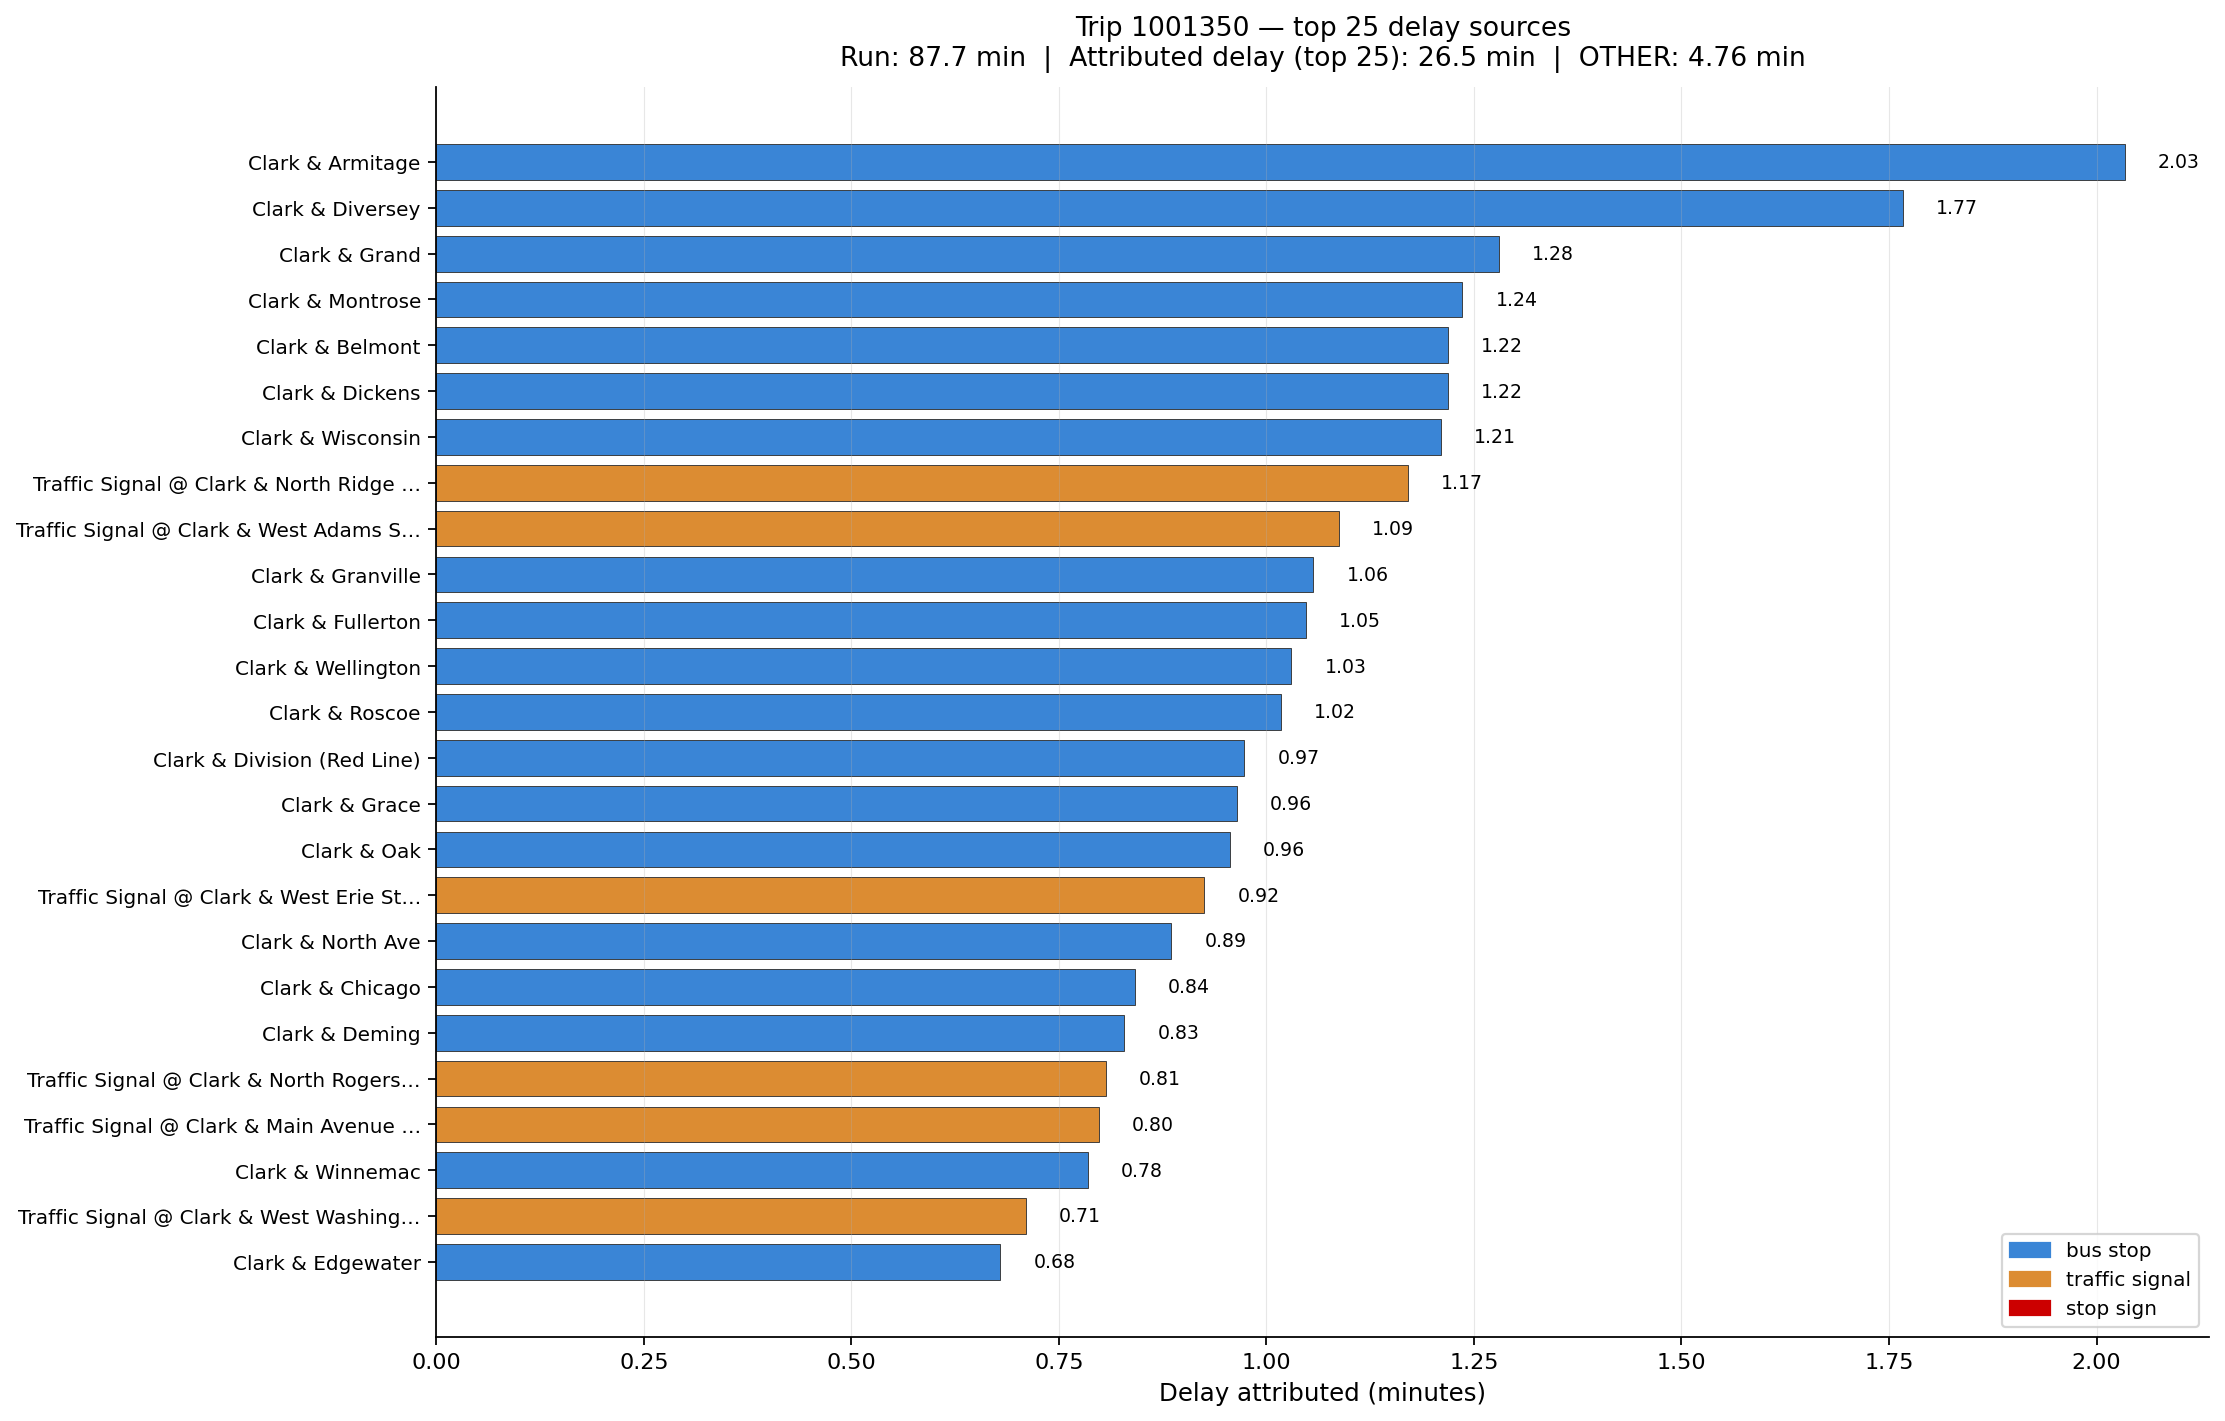
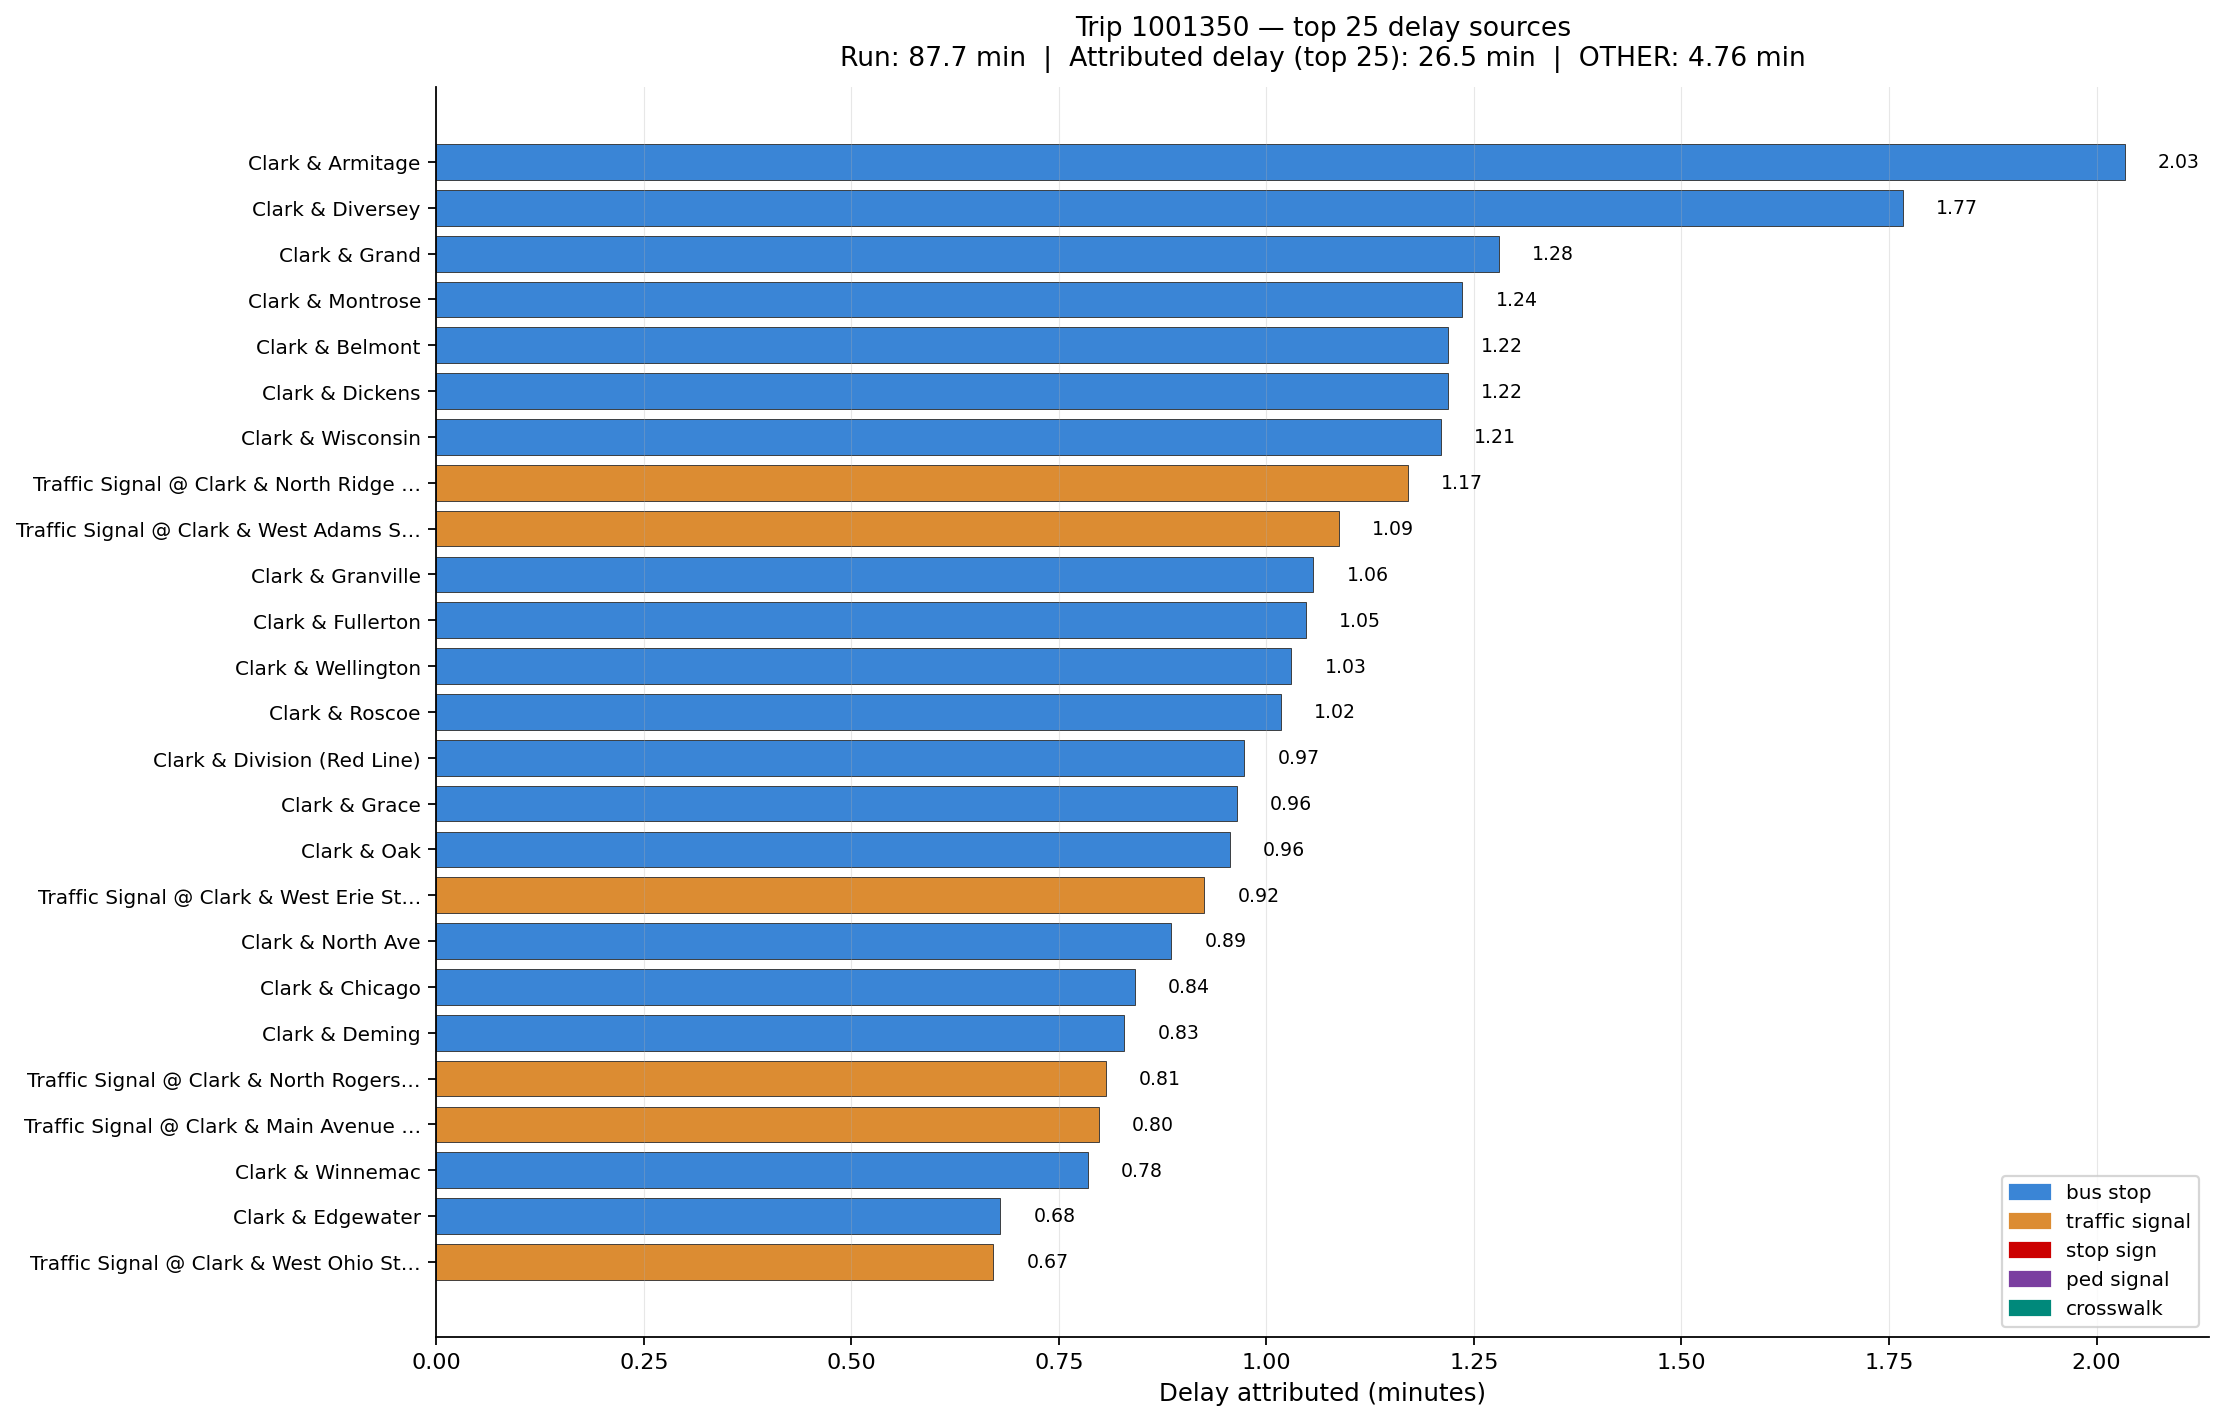
Detect pedestrian crossings in the OSM enrichment
Adds two new ControlPoint types alongside traffic_signals and stop:

  - ped_crossing_signal — signalised pedestrian crossings (Pelican, Puffin,
    Toucan, crossing=traffic_signals, etc.) where the bus must wait on red.
  - ped_crossing_marked — marked but unsignalised crossings (zebra, marked,
    legacy "uncontrolled" with markings) where the bus must yield.

`highway=crossing` nodes are processed in the same per-segment walk as the
intersection logic; a node only flows into the output if it's either a true
intersection (member of ≥2 highway ways) or a recognised pedestrian crossing
variant. Unmarked crossings are dropped (buses don't reliably stop for
them). After the main loop, ped crossings within 40 m of any captured
signal/stop intersection are filtered out so their delay isn't
double-counted against the same physical location; the threshold is
exposed as `--ped-merge` (default 40 m) and as the `ped_merge_m`
parameter on `find_intersections_for_shape` and `build_intersections`.

DEFAULT_KEEP_TYPES and the CLI `--keep-types` default now include both ped
variants so they're surfaced by default. On the Route 22 SB shape (10.7 mi,
77 signals, 8 stop signs), the rebuilt enrichment adds 42 marked
crosswalks + 1 signalised pedestrian crossing; ~140 candidate ped nodes
are suppressed by the proximity filter as co-located with existing signal
intersections.

Tests: 7 new cases cover signalised vs marked vs unmarked classification,
[…]

Changed region(s): [[0.0, 0.836, 0.4962, 0.898], [0.8993, 0.8051, 0.9924, 0.9289]]

diff --git a/src/bus_trajectories/intersections.py b/src/bus_trajectories/intersections.py
@@ -1,14 +1,25 @@
-"""Enrich a way-match cache with the controlled intersections along a route.
+"""Enrich a way-match cache with the controlled features along a route.
 
-For each shape in a way-match cache, we identify intersections (nodes where
-the bus's OSM way meets another road) and keep only those where the bus's
-direction of travel is *controlled*:
+For each shape in a way-match cache, we identify two kinds of nodes that
+constrain the bus's speed:
 
-  - The intersection node carries ``highway=traffic_signals`` (signal applies
-    to all approaches by default).
-  - A node on the bus's way, just upstream of the intersection in the bus's
-    traversal direction, carries ``highway=stop`` or ``highway=give_way``
-    with a ``direction`` tag that matches the bus's traversal.
+1. **Controlled intersections** — nodes where the bus's OSM way meets another
+   road, and the bus's direction of travel is controlled:
+
+   - The intersection node carries ``highway=traffic_signals`` (signal
+     applies to all approaches by default).
+   - A node on the bus's way, just upstream of the intersection in the
+     bus's traversal direction, carries ``highway=stop`` or
+     ``highway=give_way`` with a ``direction`` tag that matches the bus's
+     traversal.
+
+2. **Pedestrian crossings** — ``highway=crossing`` nodes on the bus's way
+   that are either signalised (``crossing=traffic_signals`` and related
+   ``crossing_ref`` values) or marked (``crossing=marked`` / ``zebra`` /
+   ``uncontrolled``). Unmarked crossings are skipped since they rarely
+   cause buses to actually stop. Crossings co-located with a captured
+   intersection (within ~40 m) are dropped to avoid double-counting the
+   same physical delay.
 
 Intersections where the control is on a side street the bus doesn't use are
 treated as "bus has free right-of-way" and skipped.
@@ -55,7 +66,19 @@ DEFAULT_CLUSTER_GAP_M = 0.015 * 1609.344  # ~24.1 m
 
 # Default control types to keep in the output. give_way is dropped by
 # default since OSM tagging of yields on bus arterials is sparse and noisy.
-DEFAULT_KEEP_TYPES: tuple[str, ...] = ("traffic_signals", "stop")
+DEFAULT_KEEP_TYPES: tuple[str, ...] = (
+    "traffic_signals",
+    "stop",
+    "ped_crossing_signal",
+    "ped_crossing_marked",
+)
+
+# A pedestrian crossing within this distance of a signal / stop-sign
+# intersection is folded into the intersection (the bus's delay there is
+# already attributed to the signal/stop). 40 m ≈ half a typical Chicago
+# block; far enough to catch far-side crossings but tight enough that a
+# genuine mid-block crossing on the next block stays distinct.
+DEFAULT_PED_MERGE_M = 40.0
 
 DEFAULT_OVERPASS_ENDPOINT = "https://overpass-api.de/api/interpreter"
 
@@ -217,6 +240,68 @@ def _node_to_highway_ways(ways_by_id: dict[int, dict]) -> dict[int, set[int]]:
     return out
 
 
+def _pedestrian_crossing_type(tags: dict) -> str | None:
+    """Classify a ``highway=crossing`` node by its variant.
+
+    Returns:
+        ``"ped_crossing_signal"`` — signalised pedestrian crossing (Pelican,
+        Puffin, Toucan, etc.), where the bus must wait on a red.
+        ``"ped_crossing_marked"`` — marked but un-signalised crossing
+        (zebra, marked, "uncontrolled"). Buses must yield to pedestrians.
+        ``None`` — unmarked / unknown / not a crossing. Skipped.
+    """
+    if (tags.get("highway") or "").lower() != "crossing":
+        return None
+    crossing = (tags.get("crossing") or "").lower()
+    cref = (tags.get("crossing_ref") or "").lower()
+    if crossing == "traffic_signals" or cref in (
+        "pelican", "puffin", "toucan", "pegasus", "signals"
+    ):
+        return "ped_crossing_signal"
+    # "uncontrolled" in OSM legacy tagging means "marked, no signal" — buses
+    # still stop. New OSM guidance is to use crossing=marked; we accept both.
+    if crossing in ("marked", "zebra", "uncontrolled") or cref == "zebra":
+        return "ped_crossing_marked"
+    # Newer schema: crossing:markings=yes/zebra/lines/...
+    if (tags.get("crossing:markings") or "").lower() in (
+        "yes", "zebra", "lines", "dashes", "ladder"
+    ):
+        return "ped_crossing_marked"
+    return None
+
+
+def _drop_ped_crossings_near_intersections(
+    cps: list[ControlPoint], *, max_dist_m: float
+) -> list[ControlPoint]:
+    """Drop ped-crossing entries that are within ``max_dist_m`` of any
+    non-ped ControlPoint (whose attributed delay already covers the same
+    physical location).
+    """
+    import bisect
+
+    non_ped_dists = sorted(
+        c.dist_along_route_m
+        for c in cps
+        if not c.control_type.startswith("ped_crossing")
+    )
+    if not non_ped_dists:
+        return cps
+    out: list[ControlPoint] = []
+    for c in cps:
+        if not c.control_type.startswith("ped_crossing"):
+            out.append(c)
+            continue
+        i = bisect.bisect_left(non_ped_dists, c.dist_along_route_m)
+        nearest = float("inf")
+        if i < len(non_ped_dists):
+            nearest = min(nearest, abs(non_ped_dists[i] - c.dist_along_route_m))
+        if i > 0:
+            nearest = min(nearest, abs(non_ped_dists[i - 1] - c.dist_along_route_m))
+        if nearest > max_dist_m:
+            out.append(c)
+    return out
+
+
 def _direction_applies(direction_tag: str | None, bus_direction: str) -> bool:
     """Does an OSM direction tag apply to a bus traversing in ``bus_direction``?
 
@@ -297,6 +382,7 @@ def find_intersections_for_shape(
     stop_sign_proximity_m: float = STOP_SIGN_PROXIMITY_M,
     keep_types: tuple[str, ...] = DEFAULT_KEEP_TYPES,
     cluster_gap_m: float = DEFAULT_CLUSTER_GAP_M,
+    ped_merge_m: float = DEFAULT_PED_MERGE_M,
 ) -> list[ControlPoint]:
     """For one shape's way-cache, find every controlled intersection on the route.
 
@@ -369,12 +455,15 @@ def find_intersections_for_shape(
             ):
                 pending_stop = (node_id, dist_route_m, highway_tag)
 
-            # Is this an intersection node? (member of >=2 highway ways
+            # Is this node an intersection (member of >=2 highway ways
             # OUTSIDE the bus's path — Clark Street is itself many OSM ways
             # joined end-to-end, so we exclude every way_id the bus traverses
-            # to avoid treating the next Clark segment as a "cross street".)
+            # to avoid treating the next Clark segment as a "cross street")?
+            # Or is it a pedestrian crossing on the bus's way?
             other_ways = node_to_ways.get(node_id, set()) - bus_way_ids
-            if not other_ways:
+            is_intersection = bool(other_ways)
+            ped_type = _pedestrian_crossing_type(tags)
+            if not is_intersection and ped_type is None:
                 continue
 
             # Already reported (e.g., shared between two segments)? Still update
@@ -383,19 +472,25 @@ def find_intersections_for_shape(
                 # Keep walking; the stop/yield tracking is per-segment-direction.
                 continue
 
-            # Determine control type. First hit wins.
+            # Determine control type. Intersection signal/stop takes
+            # precedence over a co-located ped crossing (the proximity
+            # filter would have dropped the ped entry anyway).
             control_type: str | None = None
-            if highway_tag == "traffic_signals":
-                control_type = "traffic_signals"
-            elif (
-                pending_stop is not None
-                and (dist_route_m - pending_stop[1]) <= stop_sign_proximity_m
-                and (dist_route_m - pending_stop[1]) >= -1e-3
-            ):
-                control_type = pending_stop[2]  # "stop" or "give_way"
+            if is_intersection:
+                if highway_tag == "traffic_signals":
+                    control_type = "traffic_signals"
+                elif (
+                    pending_stop is not None
+                    and (dist_route_m - pending_stop[1]) <= stop_sign_proximity_m
+                    and (dist_route_m - pending_stop[1]) >= -1e-3
+                ):
+                    control_type = pending_stop[2]  # "stop" or "give_way"
+            if control_type is None and ped_type is not None:
+                control_type = ped_type
 
             if control_type is None:
-                # Uncontrolled — bus has right-of-way. Skip.
+                # Intersection with no signal/stop on the bus's side, and
+                # not a ped crossing — bus has right-of-way. Skip.
                 continue
 
             cross_names: list[str] = []
@@ -423,7 +518,13 @@ def find_intersections_for_shape(
             if control_type in ("stop", "give_way"):
                 pending_stop = None
 
-    # Filter to kept control types (default: signals + stop, dropping give_way).
+    # Drop ped crossings that share their physical delay with an already-
+    # captured signal/stop intersection nearby.
+    if ped_merge_m > 0:
+        out = _drop_ped_crossings_near_intersections(out, max_dist_m=ped_merge_m)
+
+    # Filter to kept control types (default includes both signals + stop
+    # plus the two ped-crossing variants).
     out = [c for c in out if c.control_type in keep_types]
     out.sort(key=lambda c: c.dist_along_route_m)
 
@@ -448,6 +549,7 @@ def build_intersections(
     stop_sign_proximity_m: float = STOP_SIGN_PROXIMITY_M,
     keep_types: tuple[str, ...] = DEFAULT_KEEP_TYPES,
     cluster_gap_m: float = DEFAULT_CLUSTER_GAP_M,
+    ped_merge_m: float = DEFAULT_PED_MERGE_M,
     progress: bool = True,
 ) -> dict[str, list[ControlPoint]]:
     """Build ``{shape_id: [ControlPoint, ...]}`` from a way-match cache."""
@@ -480,6 +582,7 @@ def build_intersections(
             stop_sign_proximity_m=stop_sign_proximity_m,
             keep_types=keep_types,
             cluster_gap_m=cluster_gap_m,
+            ped_merge_m=ped_merge_m,
         )
         out[sid] = cps
         if progress:

diff --git a/tests/test_intersections.py b/tests/test_intersections.py
@@ -337,6 +337,133 @@ def test_give_way_filtered_by_default():
     assert len(cps2) == 1 and cps2[0].control_type == "give_way"
 
 
+# ---------- pedestrian crossings -------------------------------------------
+
+
+def _bus_with_node(crossing_node_idx: int, crossing_tags: dict,
+                   *, n: int = 51, total_m: float = 1000.0):
+    """Helper: bus way with a single node at index crossing_node_idx tagged
+    as the given crossing variant. Returns (cache, polyline, dist, elements)."""
+    poly, dist = _straight_polyline(n=n, total_m=total_m)
+    bus_node_ids = list(range(1, n + 1))
+    bus_way = _way(100, bus_node_ids, tags={"highway": "primary",
+                                              "name": "North Clark Street"})
+    elements: list[dict] = [bus_way]
+    for i, nid in enumerate(bus_node_ids):
+        tags = crossing_tags if i == crossing_node_idx else None
+        elements.append(_node(nid, float(poly[i, 0]), float(poly[i, 1]), tags))
+    cache = [WaySegment(way_id=100, dist_start_m=0.0, dist_end_m=total_m,
+                         direction="forward", name="Clark", road_class="primary")]
+    return cache, poly, dist, elements
+
+
+def test_ped_crossing_signalised_kept():
+    """A mid-block highway=crossing + crossing=traffic_signals on the bus's
+    way → one ControlPoint of type ped_crossing_signal."""
+    cache, poly, dist, elements = _bus_with_node(
+        crossing_node_idx=20,  # 400 m into the route
+        crossing_tags={"highway": "crossing", "crossing": "traffic_signals"},
+    )
+    cps = find_intersections_for_shape(cache, poly, dist, _osm(elements))
+    assert len(cps) == 1
+    assert cps[0].control_type == "ped_crossing_signal"
+    assert abs(cps[0].dist_along_route_m - 400.0) < 1.0
+    assert cps[0].cross_street_names == ()  # mid-block; no cross way
+
+
+def test_ped_crossing_marked_kept():
+    """highway=crossing + crossing=marked → ped_crossing_marked."""
+    cache, poly, dist, elements = _bus_with_node(
+        crossing_node_idx=15,
+        crossing_tags={"highway": "crossing", "crossing": "marked"},
+    )
+    cps = find_intersections_for_shape(cache, poly, dist, _osm(elements))
+    assert len(cps) == 1
+    assert cps[0].control_type == "ped_crossing_marked"
+
+
+def test_ped_crossing_zebra_kept():
+    """crossing=zebra is treated as marked."""
+    cache, poly, dist, elements = _bus_with_node(
+        crossing_node_idx=10,
+        crossing_tags={"highway": "crossing", "crossing_ref": "zebra"},
+    )
+    cps = find_intersections_for_shape(cache, poly, dist, _osm(elements))
+    assert len(cps) == 1 and cps[0].control_type == "ped_crossing_marked"
+
+
+def test_ped_crossing_pelican_kept_as_signal():
+    """crossing_ref=pelican → ped_crossing_signal."""
+    cache, poly, dist, elements = _bus_with_node(
+        crossing_node_idx=10,
+        crossing_tags={"highway": "crossing", "crossing_ref": "pelican"},
+    )
+    cps = find_intersections_for_shape(cache, poly, dist, _osm(elements))
+    assert len(cps) == 1 and cps[0].control_type == "ped_crossing_signal"
+
+
+def test_ped_crossing_unmarked_skipped():
+    """An unmarked crossing is not reliable bus delay → skipped."""
+    cache, poly, dist, elements = _bus_with_node(
+        crossing_node_idx=10,
+        crossing_tags={"highway": "crossing", "crossing": "unmarked"},
+    )
+    cps = find_intersections_for_shape(cache, poly, dist, _osm(elements))
+    assert cps == []
+
+
+def test_ped_crossing_near_signal_suppressed():
+    """A ped crossing within DEFAULT_PED_MERGE_M of a captured traffic signal
+    is dropped — the signal already accounts for the bus's stopping delay."""
+    poly, dist = _straight_polyline(n=51, total_m=1000.0)
+    bus_node_ids = list(range(1, 52))
+    bus_way = _way(100, bus_node_ids, tags={"highway": "primary", "name": "Clark"})
+    # Cross street meets the bus at node 25 (dist 480m).
+    cross_way = _way(200, [100, 25, 200], tags={"highway": "secondary",
+                                                  "name": "West Foster Avenue"})
+    elements: list[dict] = [bus_way, cross_way]
+    for i, nid in enumerate(bus_node_ids):
+        tags: dict | None = None
+        if nid == 25:
+            tags = {"highway": "traffic_signals"}
+        elif nid == 26:  # ~20 m past the signal: far-side ped crossing
+            tags = {"highway": "crossing", "crossing": "marked"}
+        elements.append(_node(nid, float(poly[i, 0]), float(poly[i, 1]), tags))
+    elements.append(_node(100, float(poly[24, 0]) + 0.001, float(poly[24, 1])))
+    elements.append(_node(200, float(poly[24, 0]) - 0.001, float(poly[24, 1])))
+    cache = [WaySegment(way_id=100, dist_start_m=0.0, dist_end_m=1000.0,
+                         direction="forward", name="Clark", road_class="primary")]
+    cps = find_intersections_for_shape(cache, poly, dist, _osm(elements))
+    # Just the signal should survive; the co-located ped crossing is dropped.
+    assert len(cps) == 1
+    assert cps[0].control_type == "traffic_signals"
+
+
+def test_ped_crossing_far_from_signal_kept():
+    """If the ped crossing is far from any signal/stop intersection, it
+    survives the proximity filter."""
+    poly, dist = _straight_polyline(n=51, total_m=1000.0)
+    bus_node_ids = list(range(1, 52))
+    bus_way = _way(100, bus_node_ids, tags={"highway": "primary"})
+    cross_way = _way(200, [100, 5, 200], tags={"highway": "secondary",
+                                                 "name": "Foster"})
+    elements: list[dict] = [bus_way, cross_way]
+    for i, nid in enumerate(bus_node_ids):
+        tags: dict | None = None
+        if nid == 5:
+            tags = {"highway": "traffic_signals"}
+        elif nid == 30:  # 500 m past the signal — well outside merge radius
+            tags = {"highway": "crossing", "crossing": "marked"}
+        elements.append(_node(nid, float(poly[i, 0]), float(poly[i, 1]), tags))
+    elements.append(_node(100, float(poly[4, 0]) + 0.001, float(poly[4, 1])))
+    elements.append(_node(200, float(poly[4, 0]) - 0.001, float(poly[4, 1])))
+    cache = [WaySegment(way_id=100, dist_start_m=0.0, dist_end_m=1000.0,
+                         direction="forward", name="Clark", road_class="primary")]
+    cps = find_intersections_for_shape(cache, poly, dist, _osm(elements))
+    assert len(cps) == 2
+    assert {c.control_type for c in cps} == {"traffic_signals", "ped_crossing_marked"}
+
+
 # ---------- save/load round-trip -------------------------------------------
 
 

diff --git a/src/bus_trajectories/cli.py b/src/bus_trajectories/cli.py
@@ -169,6 +169,7 @@ def _cmd_build_intersections(args: argparse.Namespace) -> int:
             stop_sign_proximity_m=args.stop_proximity,
             keep_types=keep_types,
             cluster_gap_m=args.cluster_gap,
+            ped_merge_m=args.ped_merge,
             progress=True,
         )
     except OverpassUnreachable as e:
@@ -325,10 +326,12 @@ def main(argv: list[str] | None = None) -> int:
     )
     i.add_argument(
         "--keep-types",
-        default="traffic_signals,stop",
+        default="traffic_signals,stop,ped_crossing_signal,ped_crossing_marked",
         dest="keep_types",
-        help="Comma-separated control types to keep (default: traffic_signals,stop). "
-             "Use 'traffic_signals,stop,give_way' to include yields.",
+        help="Comma-separated control types to keep. Default keeps signals, "
+             "stop signs, signalised pedestrian crossings, and marked "
+             "pedestrian crossings. Use 'traffic_signals,stop' to exclude "
+             "pedestrian crossings; add 'give_way' to include yields.",
     )
     i.add_argument(
         "--cluster-gap",
@@ -337,6 +340,15 @@ def main(argv: list[str] | None = None) -> int:
         dest="cluster_gap",
         help="Merge consecutive same-type intersections within this distance (m). "
              "0 disables clustering. Default 0.015 mi (~24 m).",
+    )
+    i.add_argument(
+        "--ped-merge",
+        type=float,
+        default=40.0,
+        dest="ped_merge",
+        help="Drop pedestrian crossings within this distance (m) of an "
+             "already-captured signal/stop intersection. Default 40 m. 0 "
+             "disables the filter.",
     )
     i.set_defaults(func=_cmd_build_intersections)
 